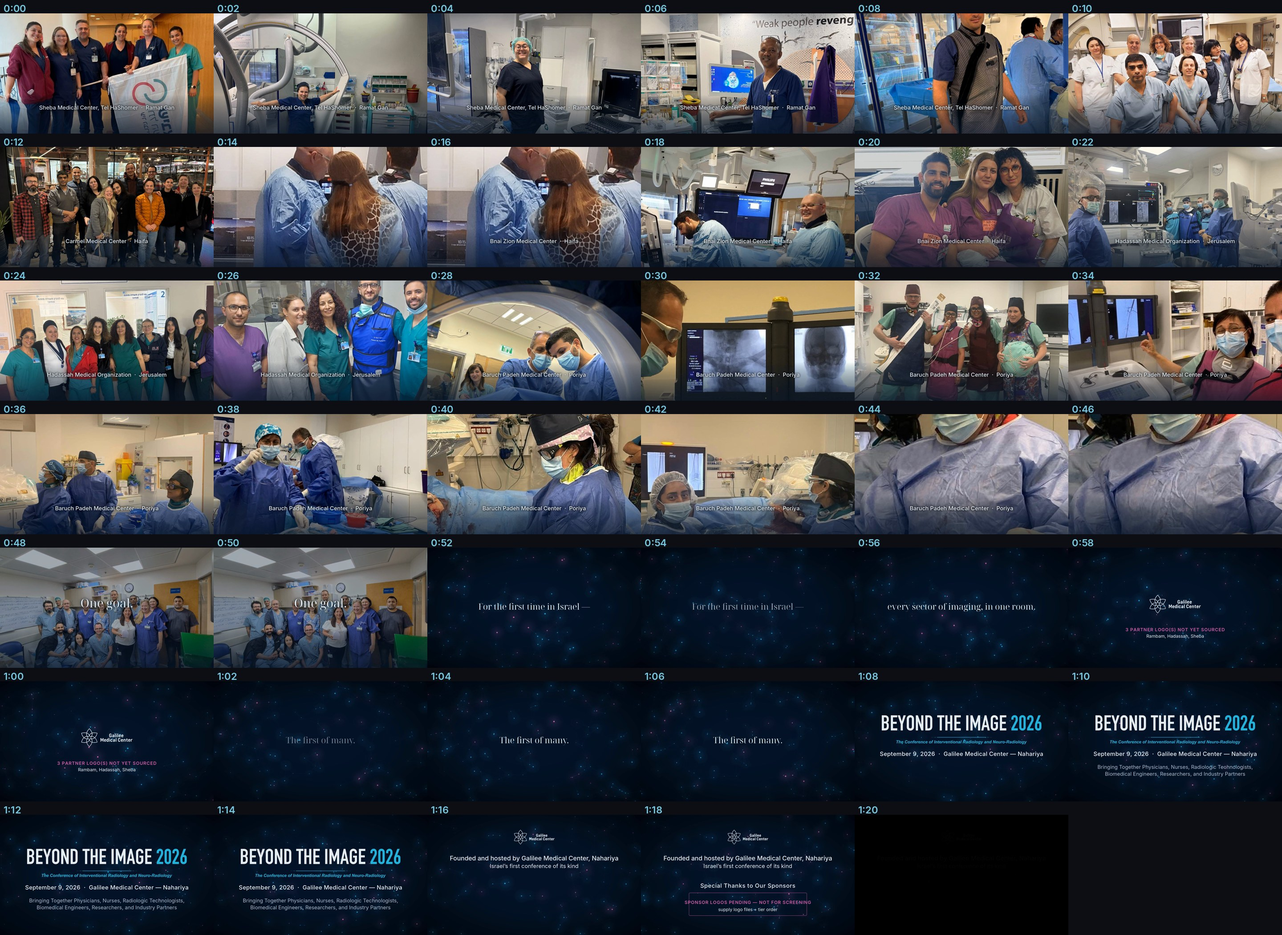
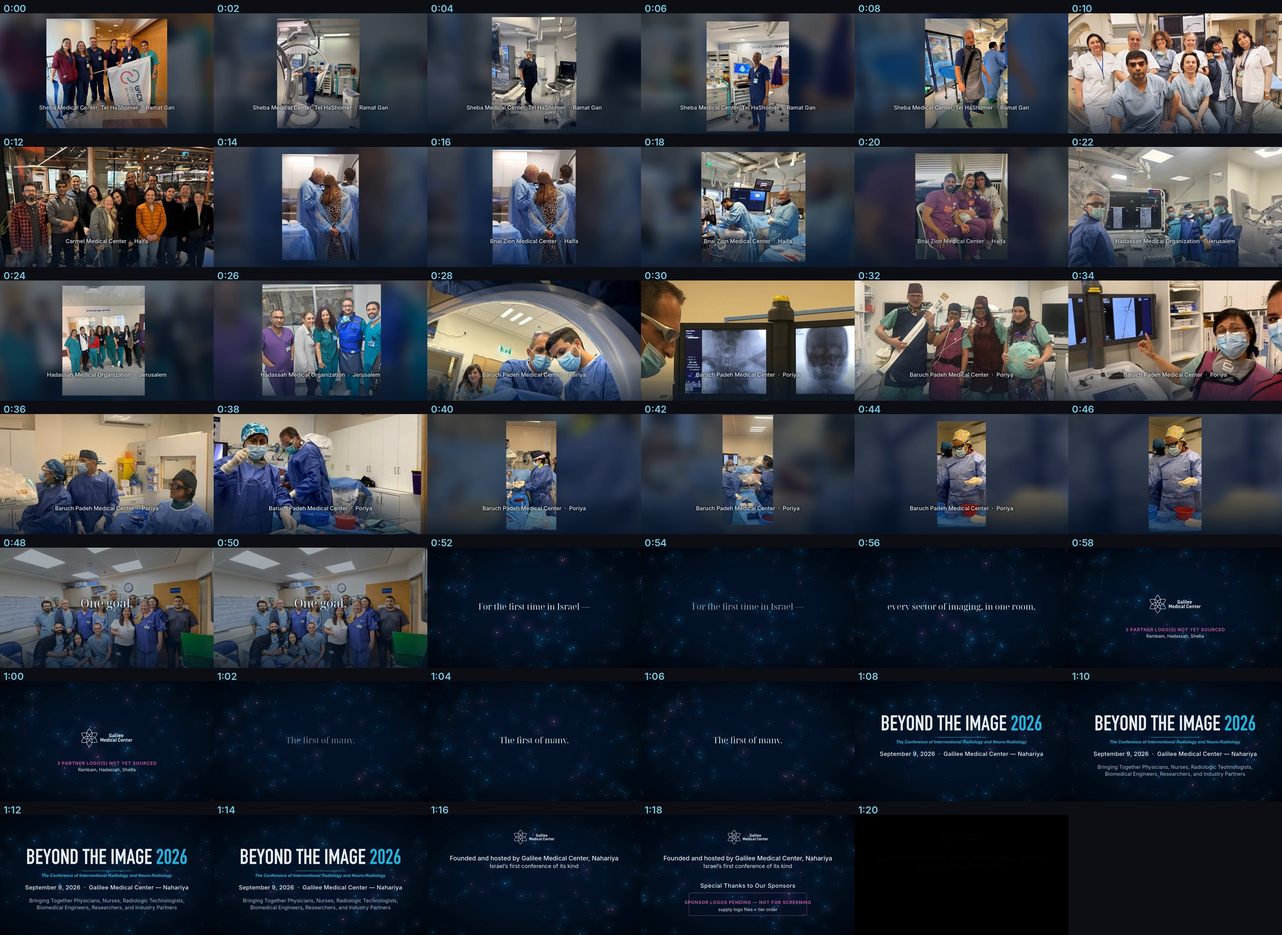
Frame every photograph properly, and give each its own move
Two problems, both visible on screen.

Cropping. Every photograph was being cover-cropped to 16:9 regardless of its
shape. 13 of the 23 are portraits; the worst, at 471x1023, kept 26% of its
height and came out as an anonymous gowned torso with no face and no context.
Framing is now chosen per photograph: anything near 16:9 is framed edge to
edge, anything below 1.15 aspect is framed whole over a blurred, darkened
copy of itself. Nobody is cropped out of a picture they are in.

Sameness. Every photograph had the identical slow push-in. Each now takes its
own move from a cycle of seven - push in, pan right, pull out, rise, pan
left, drift, fall - so no two neighbours share one. Travel is capped in
pixels (130px horizontal, 90px vertical for cover; 55/40 for the framed
photograph in contain) rather than as a fraction of the available margin,
which had a tall portrait sliding a third of the way across the frame. In
contain framing the blurred bed moves at roughly half the rate of the
photograph over it, so there is real parallax rather than a flat slide.

The closing group photograph now pulls out rather than pushing in, so it
opens up into the "One goal." card instead of tightening on it.

Claude-Session: https://claude.ai/code/session_017p5tYCJoZxeo71cVTyLicr

diff --git a/film/scripts/montage.py b/film/scripts/montage.py
@@ -35,9 +35,26 @@ CLOSING_DUR = min(5.0, SHOT_DUR * 0.21)
 # on faces - four translucent heads floated over the group at 1:49.9 -
 # and the brief calls for hard cuts inside a section anyway.
 DISSOLVE = 0.0
-ZOOM_START, ZOOM_END = 1.02, 1.095
-DRIFT_PX = 26           # horizontal drift across a slot
+ZMAX = 1.055            # most a cover-framed photograph is ever zoomed in
+FIT_MIN, FIT_MAX = 0.88, 0.955   # contain mode: fraction of frame height used
 DEFAULT_ANCHOR = 0.38   # vertical crop anchor; 0 = top, 1 = bottom
+
+# A photograph much narrower than 16:9 loses most of itself to a cover crop -
+# a 471x1023 portrait keeps 26% of its height and comes out as an anonymous
+# torso. Anything below this aspect is framed whole instead, over a blurred
+# copy of itself.
+CONTAIN_BELOW = 1.15
+
+# One move per photograph, cycled so no two neighbours share one. Amplitudes
+# are deliberately small: this should read as a living photograph, not a
+# camera move.
+MOVES = ["push_in", "pan_r", "pull_out", "rise", "pan_l", "drift", "fall"]
+
+# Travel budget in pixels, each way. A pan proportional to the available margin
+# slides a tall portrait a third of the way across the frame, which reads as a
+# camera move rather than a living photograph.
+PAN_X, PAN_Y = 130, 90
+FG_PAN_X, FG_PAN_Y = 55, 40
 
 # Closing beat: dim the last photograph under "One goal."
 DIM_START, DIM_RAMP, DIM_MAX = SHOT_DUR - CLOSING_DUR - 0.2, 1.4, 0.36
@@ -60,68 +77,121 @@ ANCHORS = {
 }
 
 
+def _smooth(p):
+    return p * p * (3 - 2 * p)
+
+
 class Slot:
-    """One photograph (or a pending-photo placeholder) with its Ken Burns move."""
+    """One photograph with its own move.
+
+    Two framings. A photograph close to 16:9 is framed edge to edge (cover) and
+    the move works inside whatever margin the aspect mismatch leaves. A
+    photograph much taller than the frame is shown whole (contain) over a
+    blurred, darkened copy of itself, which moves at half speed behind it - so
+    nobody is cropped out of a picture they are in.
+    """
 
     def __init__(self, dur, path=None, anchor=DEFAULT_ANCHOR, pending_label=None,
-                 drift_sign=1, crop=None):
+                 move="push_in", crop=None):
         self.dur = dur
         self.anchor = anchor
         self.pending_label = pending_label
-        self.drift_sign = drift_sign
-        self.base = None
-        if path:
-            im = Image.open(path).convert("RGB")
-            if crop:
-                # Fractional [left, top, right, bottom]. Used to exclude
-                # something from frame - never to alter what stays in it.
-                l, t, r, b = crop
-                im = im.crop((int(l * im.width), int(t * im.height),
-                              int(r * im.width), int(b * im.height)))
-            self.base = self._prescale(im)
+        self.move = move
+        self.base = self.back = None
+        self.contain = False
+        if not path:
+            return
+
+        im = Image.open(path).convert("RGB")
+        if crop:
+            # Fractional [left, top, right, bottom]. Used to exclude something
+            # from frame - never to alter what stays in it.
+            l, t, r, b = crop
+            im = im.crop((int(l * im.width), int(t * im.height),
+                          int(r * im.width), int(b * im.height)))
+
+        self.contain = (im.width / im.height) < CONTAIN_BELOW
+        if self.contain:
+            fit = min(W / im.width, H / im.height) * FIT_MAX
+            self.base = im.resize((max(1, round(im.width * fit)),
+                                   max(1, round(im.height * fit))), RESAMPLE)
+            self.back = self._blurred_fill(im)
+        else:
+            cover = max(W / im.width, H / im.height) * ZMAX
+            self.base = im.resize((round(im.width * cover),
+                                   round(im.height * cover)), RESAMPLE)
 
     @staticmethod
-    def _prescale(im):
-        """Scale once to the largest size any frame will need, then crop per frame."""
-        cover = max(W / im.width, H / im.height) * ZOOM_END
-        return im.resize((max(W, int(im.width * cover)),
-                          max(H, int(im.height * cover))), RESAMPLE)
+    def _blurred_fill(im):
+        """A soft, dark bed for a portrait, made from the photograph itself."""
+        cover = max(W / im.width, H / im.height) * 1.18
+        big = im.resize((round(im.width * cover), round(im.height * cover)),
+                        Image.BILINEAR)
+        x, y = (big.width - int(W * 1.18)) // 2, (big.height - int(H * 1.18)) // 2
+        big = big.crop((x, y, x + int(W * 1.18), y + int(H * 1.18)))
+        big = big.filter(ImageFilter.GaussianBlur(46))
+        return Image.blend(big, Image.new("RGB", big.size, BG), 0.62)
+
+    # -- the moves ---------------------------------------------------------
+
+    def _params(self, e):
+        """(zoom 0..1, pan x -1..1, pan y -1..1) for eased progress e."""
+        m, c = self.move, 2 * e - 1
+        if m == "push_in":
+            return e, 0.0, 0.0
+        if m == "pull_out":
+            return 1 - e, 0.0, 0.0
+        if m == "pan_r":
+            return 0.45, c, 0.0
+        if m == "pan_l":
+            return 0.45, -c, 0.0
+        if m == "rise":
+            return 0.45, 0.0, -c
+        if m == "fall":
+            return 0.45, 0.0, c
+        return 0.30 + 0.45 * e, 0.55 * c, -0.35 * c      # drift
 
     def render(self, local_t):
         if self.base is None:
             return self._pending_frame()
-        p = min(max(local_t / self.dur, 0.0), 1.0)
-        eased = p * p * (3 - 2 * p)                      # smoothstep
-        zoom = ZOOM_START + (ZOOM_END - ZOOM_START) * eased
+        e = _smooth(min(max(local_t / self.dur, 0.0), 1.0))
+        z, px, py = self._params(e)
+        return self._contain_frame(z, px, py) if self.contain \
+            else self._cover_frame(z, px, py)
 
+    def _cover_frame(self, z, px, py):
         bw, bh = self.base.size
-        # window size at this zoom, relative to the fully-zoomed base
-        win_w = int(bw * (ZOOM_START / zoom))
-        win_h = int(win_w * H / W)
-        if win_h > bh:
-            win_h = bh
-            win_w = int(win_h * W / H)
+        scale = 1.0 + (ZMAX - 1.0) * z
+        win_w = min(bw, int(W * ZMAX / scale))
+        win_h = min(bh, int(win_w * H / W))
+        win_w = min(bw, int(win_h * W / H))
 
-        drift = self.drift_sign * DRIFT_PX * (eased - 0.5) * 2
-        x = (bw - win_w) / 2 + drift
-        y = (bh - win_h) * self.anchor
-        x = min(max(x, 0), bw - win_w)
-        y = min(max(y, 0), bh - win_h)
+        mx, my = bw - win_w, bh - win_h
+        x = mx / 2 + px * min(mx / 2, PAN_X)
+        y = my * self.anchor + py * min(my / 2, PAN_Y)
+        x = min(max(x, 0), mx)
+        y = min(max(y, 0), my)
+        return self.base.crop((int(x), int(y), int(x) + win_w,
+                               int(y) + win_h)).resize((W, H), RESAMPLE)
 
-        crop = self.base.crop((int(x), int(y), int(x) + win_w, int(y) + win_h))
-        return crop.resize((W, H), RESAMPLE)
+    def _contain_frame(self, z, px, py):
+        # Background moves at half the foreground's rate - real parallax.
+        bg = self.back
+        bw, bh = bg.size
+        bmx, bmy = bw - W, bh - H
+        bx = bmx / 2 + px * min(bmx / 2, FG_PAN_X * 0.45)
+        by = bmy / 2 + py * min(bmy / 2, FG_PAN_Y * 0.45)
+        frame = bg.crop((int(bx), int(by), int(bx) + W, int(by) + H)).copy()
 
-    def _pending_frame(self):
-        im = Image.new("RGB", (W, H), BG)
-        d = ImageDraw.Draw(im)
-        d.rounded_rectangle([260, 360, W - 260, H - 360], radius=8,
-                            outline=CYAN + (150,), width=3)
-        centred_line(im, self.pending_label or "PHOTOS PENDING",
-                     font("sans_semibold", 54), 470, CYAN, tracking=4)
-        centred_line(im, "slot reserved — photographs not yet supplied",
-                     font("sans", 42), 560, SILVER)
-        return im
+        k = (FIT_MIN + (FIT_MAX - FIT_MIN) * z) / FIT_MAX
+        fw, fh = max(1, round(self.base.width * k)), max(1, round(self.base.height * k))
+        fg = self.base.resize((fw, fh), RESAMPLE)
 
+        room_x, room_y = (W - fw) / 2, (H - fh) / 2
+        fx = room_x + px * min(room_x, FG_PAN_X)
+        fy = room_y + py * min(room_y, FG_PAN_Y)
+        frame.paste(fg, (int(fx), int(fy)))
+        return frame
 
 def bottom_scrim():
     """Navy gradient over the lower band so captions stay legible on any photo.
@@ -162,7 +232,8 @@ def build_slots():
 
     total = sum(len(ps) for _, ps in groups)
     if total == 0:
-        return [Slot(SHOT_DUR, None, pending_label="PHOTOGRAPHS PENDING")], \
+        return [Slot(SHOT_DUR, None,
+                     pending_label="PHOTOGRAPHS PENDING")], \
             pending, []
     per = (SHOT_DUR - CLOSING_DUR) / total
 
@@ -175,7 +246,7 @@ def build_slots():
                 continue
             slots.append(Slot(per, path,
                               rec.get("anchor", ANCHORS.get(key, DEFAULT_ANCHOR)),
-                              drift_sign=1 if i % 2 == 0 else -1,
+                              move=rec.get("move", MOVES[i % len(MOVES)]),
                               crop=rec.get("crop")))
             i += 1
         if len(slots) > start:
@@ -183,7 +254,8 @@ def build_slots():
 
     closing = ROOT / cfg["closing_slot"]["preferred"]
     slots.append(Slot(CLOSING_DUR, closing if closing.exists() else None,
-                      0.36, pending_label="CLOSING FRAME PENDING"))
+                      0.42, pending_label="CLOSING FRAME PENDING",
+                      move="pull_out"))
     return slots, pending, layout
 
 

diff --git a/film/README.md b/film/README.md
@@ -52,6 +52,15 @@ the film returns to its full 2:30 shape.
   across each institution's group. Nahariya and Rambam are skipped until their
   photographs arrive, at which point the montage re-times itself.
 
+  Two framings, chosen per photograph. Anything near 16:9 is framed edge to
+  edge. Anything much taller — 13 of the 23, one as narrow as 0.46 — is framed
+  **whole** over a blurred, darkened copy of itself, because a cover crop was
+  keeping as little as 26% of the picture and turning people into torsos.
+  Each photograph gets its own move from a cycle of seven (push in, pull out,
+  pan, rise, fall, drift), with travel capped in pixels so it reads as a
+  living photograph rather than a camera move. In contain framing the bed
+  moves at roughly half the speed of the photograph on top of it.
+
 ## Layout
 
 ```
